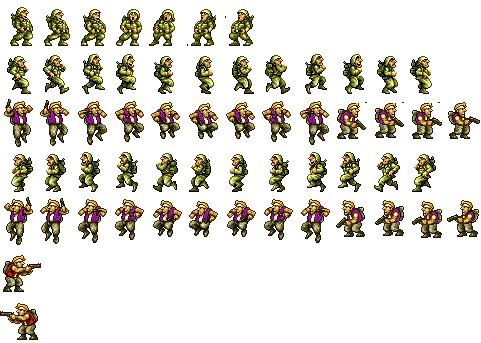
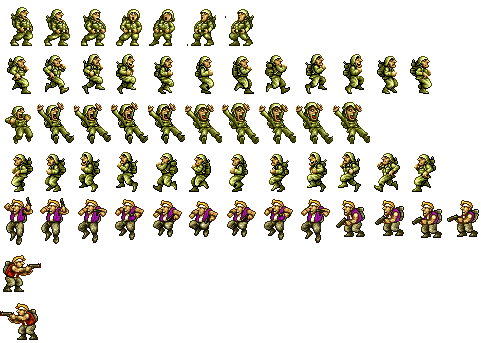
Ahora del Airbuster van saltando varios enemigos. Se agregaron algunos sprites para el salto del enemigo. Se agrego un mutex en el metodo sendMessage de servidor xq pasado un tiempo cuando se largaban varios enemigos tiraba bad alloc al hacer front en la cola del cliente

Changed region(s): [[0.0, 0.2915, 0.9979, 0.4373]]

diff --git a/src/Servidor/Servidor.cpp b/src/Servidor/Servidor.cpp
@@ -175,9 +175,9 @@ void Servidor::procesarTeclaPulsada(mensajeStruct msg){
 
 			for (mensajeStruct msgRta : mensajesRta) {
 				msgRta.socketCli = user.first;
-				  if (SDL_LockMutex(mutexQueue) == 0) {
+				  if (SDL_LockMutex(mutexQueueClientes) == 0) {
 				colaCliente->push(msgRta);
-				SDL_UnlockMutex(mutexQueue);
+				SDL_UnlockMutex(mutexQueueClientes);
 							}
 			 }
 	  }
@@ -197,10 +197,10 @@ if(!mensajesRta.empty()){
 
 				for (mensajeStruct msgRta : mensajesRta) {
 					msgRta.socketCli = user.first;
-					if (SDL_LockMutex(mutexQueue) == 0) {
+					if (SDL_LockMutex(mutexQueueClientes) == 0) {
 
 					colaCliente->push(msgRta);
-					SDL_UnlockMutex(mutexQueue);
+					SDL_UnlockMutex(mutexQueueClientes);
 							}
 				 }
 		  }
@@ -549,8 +549,11 @@ void *Servidor::sendMessage(void *arguments){
     	while(!finish){
 		    if(!queueCli->empty()){
 		    	mensajeStruct* msg = new mensajeStruct();
-		    	*msg=queueCli->front();
-		    	queueCli->pop();
+		    	if (SDL_LockMutex(mutexQueueClientes) == 0) {
+					*msg=queueCli->front();
+					queueCli->pop();
+					SDL_UnlockMutex(mutexQueueClientes);
+		    	}
 		    	if(msg->tipo == DISCONNECTED){
 		    		finish = true;
 		    	}else{

diff --git a/src/Servidor/Modelo/EnemigoAirbusterRiberts.cpp b/src/Servidor/Modelo/EnemigoAirbusterRiberts.cpp
@@ -8,7 +8,8 @@ EnemigoAirbusterRiberts::EnemigoAirbusterRiberts(int id, int velocidad, int anch
 {
 	this->sprite = "airbus";
 	this->vida = 1000;
-	this->idDeProxEnemigoALanzar = 1000;
+	this->idDeProxEnemigoALanzar = 9000;
+	this->itLanzarEnemigo = 0;
 	moverAPosicionInicial();
 }
 
@@ -70,10 +71,12 @@ bool EnemigoAirbusterRiberts::esEnemigoFinal() {
 
 Enemigo* EnemigoAirbusterRiberts::lanzarEnemigo(){
 	Enemigo *enemigo = NULL;
-	if ( (this->posX >= 0) && (this->idDeProxEnemigoALanzar == 1000) ) {
+	this->itLanzarEnemigo++;
+	if ( (this->posX >= 0) && (this->itLanzarEnemigo >= 100) ) {
 		enemigo = new Enemigo(this->idDeProxEnemigoALanzar,this->velocidad,74,98,this->piso+150,this->mapJugadores,"enemigo");
-		enemigo->saltandoDeAvion(this->posX, this->posY);
+		enemigo->saltandoDeAvion(this->posX+76, this->posY+34);
 		this->idDeProxEnemigoALanzar++;
+		this->itLanzarEnemigo = 0;
 	}
 	return enemigo;
 }

diff --git a/src/Servidor/Modelo/Enemigo.cpp b/src/Servidor/Modelo/Enemigo.cpp
@@ -43,8 +43,9 @@ void Enemigo::mover(int anchoEscenario) {
 		if (this->posY < this->piso) {
 			this->posY += 5;
 			//this->estado = DISPARANDO_DER;
-			if (this->posY > this->piso) {
+			if (this->posY >= this->piso) {
 				this->posY = this->piso;
+				this->estado = PARADO_GUN;
 			}
 		} else {
 
@@ -69,7 +70,7 @@ void Enemigo::mover(int anchoEscenario, int vecesX, string accion) {
 		this->estado = (vecesX >= 0)?SALTA_DER_GUN:SALTA_IZQ_GUN;
 	}
 
-	manejarSalto();
+	//manejarSalto();
 
 	if (vecesX == 0){
 		if (!estaSaltando()){
@@ -119,7 +120,8 @@ void Enemigo::moverAPosicionInicial(){
 void Enemigo::saltandoDeAvion(int x, int y){
 	this->posX = x;
 	this->posY = y;
-	this->estado = DISPARANDO_DER;
+	this->estado = SALTA_DER_GUN;
+	this->vida = 50;
 }
 
 string Enemigo::getUtimoChar(){

diff --git a/src/Servidor/Modelo/EscenarioS.cpp b/src/Servidor/Modelo/EscenarioS.cpp
@@ -337,10 +337,12 @@ list<mensajeStruct> EscenarioS::actualizar(){
 				this->avanceBloqueado = true;
 			}
 			returnList.push_back(getMensajeEnemigoUpdate(enemigo));
-			enemigo = enemigo->lanzarEnemigo();
-			if (enemigo != NULL) {
-				this->enemigosVivos[enemigo->getCodEnemigo()] = enemigo;
-				returnList.push_back(getMensajeEnemigoNuevo(enemigo));
+			if (this->enemigosVivos.size() <= 10) {
+				enemigo = enemigo->lanzarEnemigo();
+				if (enemigo != NULL) {
+					this->enemigosVivos[enemigo->getCodEnemigo()] = enemigo;
+					returnList.push_back(getMensajeEnemigoNuevo(enemigo));
+				}
 			}
 		}
 

diff --git a/src/Servidor/Modelo/EnemigoAirbusterRiberts.h b/src/Servidor/Modelo/EnemigoAirbusterRiberts.h
@@ -16,6 +16,7 @@ public:
 	bool esEnemigoFinal();
 	string getUtimoChar();
 	Enemigo* lanzarEnemigo();
+	int itLanzarEnemigo;
 
 private:
 	void mover(int anchoEscenario, int vecesX);
